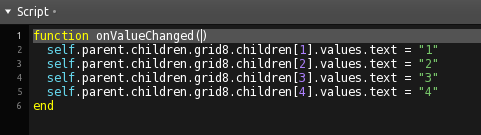
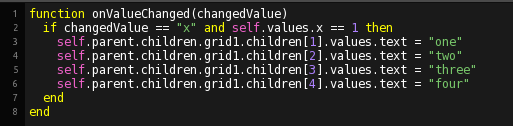
updated readme and  simple example

diff --git a/examples/grid_label/README.md b/examples/grid_label/README.md
@@ -1,12 +1,18 @@
 ## Labeling a GRID by script
 
+### General hint
+
+To ensure that a grid will keep the individual values of its childrens (especially labels), make sure to unlock "current" from "default" values as seen in the follwing picture:
+
+![gridlock](pics/grid_text_lock.png)
+
 ### ![Grid_label.tosc :](Grid_label.tosc) 
 
-This example shows how to use Lua to iterate over the children of a group (in this case a GRID), and how to index and access their properties, or values.
+This example shows how to use LUA to iterate over the children of a group (in this case a GRID, but behaves the same), and how to index and access their properties or values.
 
 ![gridlabel](pics/preview_1.gif) 
 
-The Button to trigger the labeling notifies the grid with a given name, that the user can set in the script.
+The button to trigger the labeling notifies the grid with a given name, that the user can set in the script.
 
 ![button](pics/script_button.png)
 
@@ -17,6 +23,6 @@ The grid then interates over all of its childs and prepends the name to the inde
 
 ### ![SIMPLE_set_GRID_label_texts-3.tosc :](SIMPLE_set_GRID_label_texts-3.tosc) 
 
-A similar functionality, but done by directly adressing the lables and without any iteration.
+A similar functionality, but done by directly adressing the lables and without any iteration from the buttons.
 
-![gridlabel](pics/preview_2.gif) 
+![gridlabel](pics/preview_2.gif)  ![gridlabel](pics/script_direct.png)  
